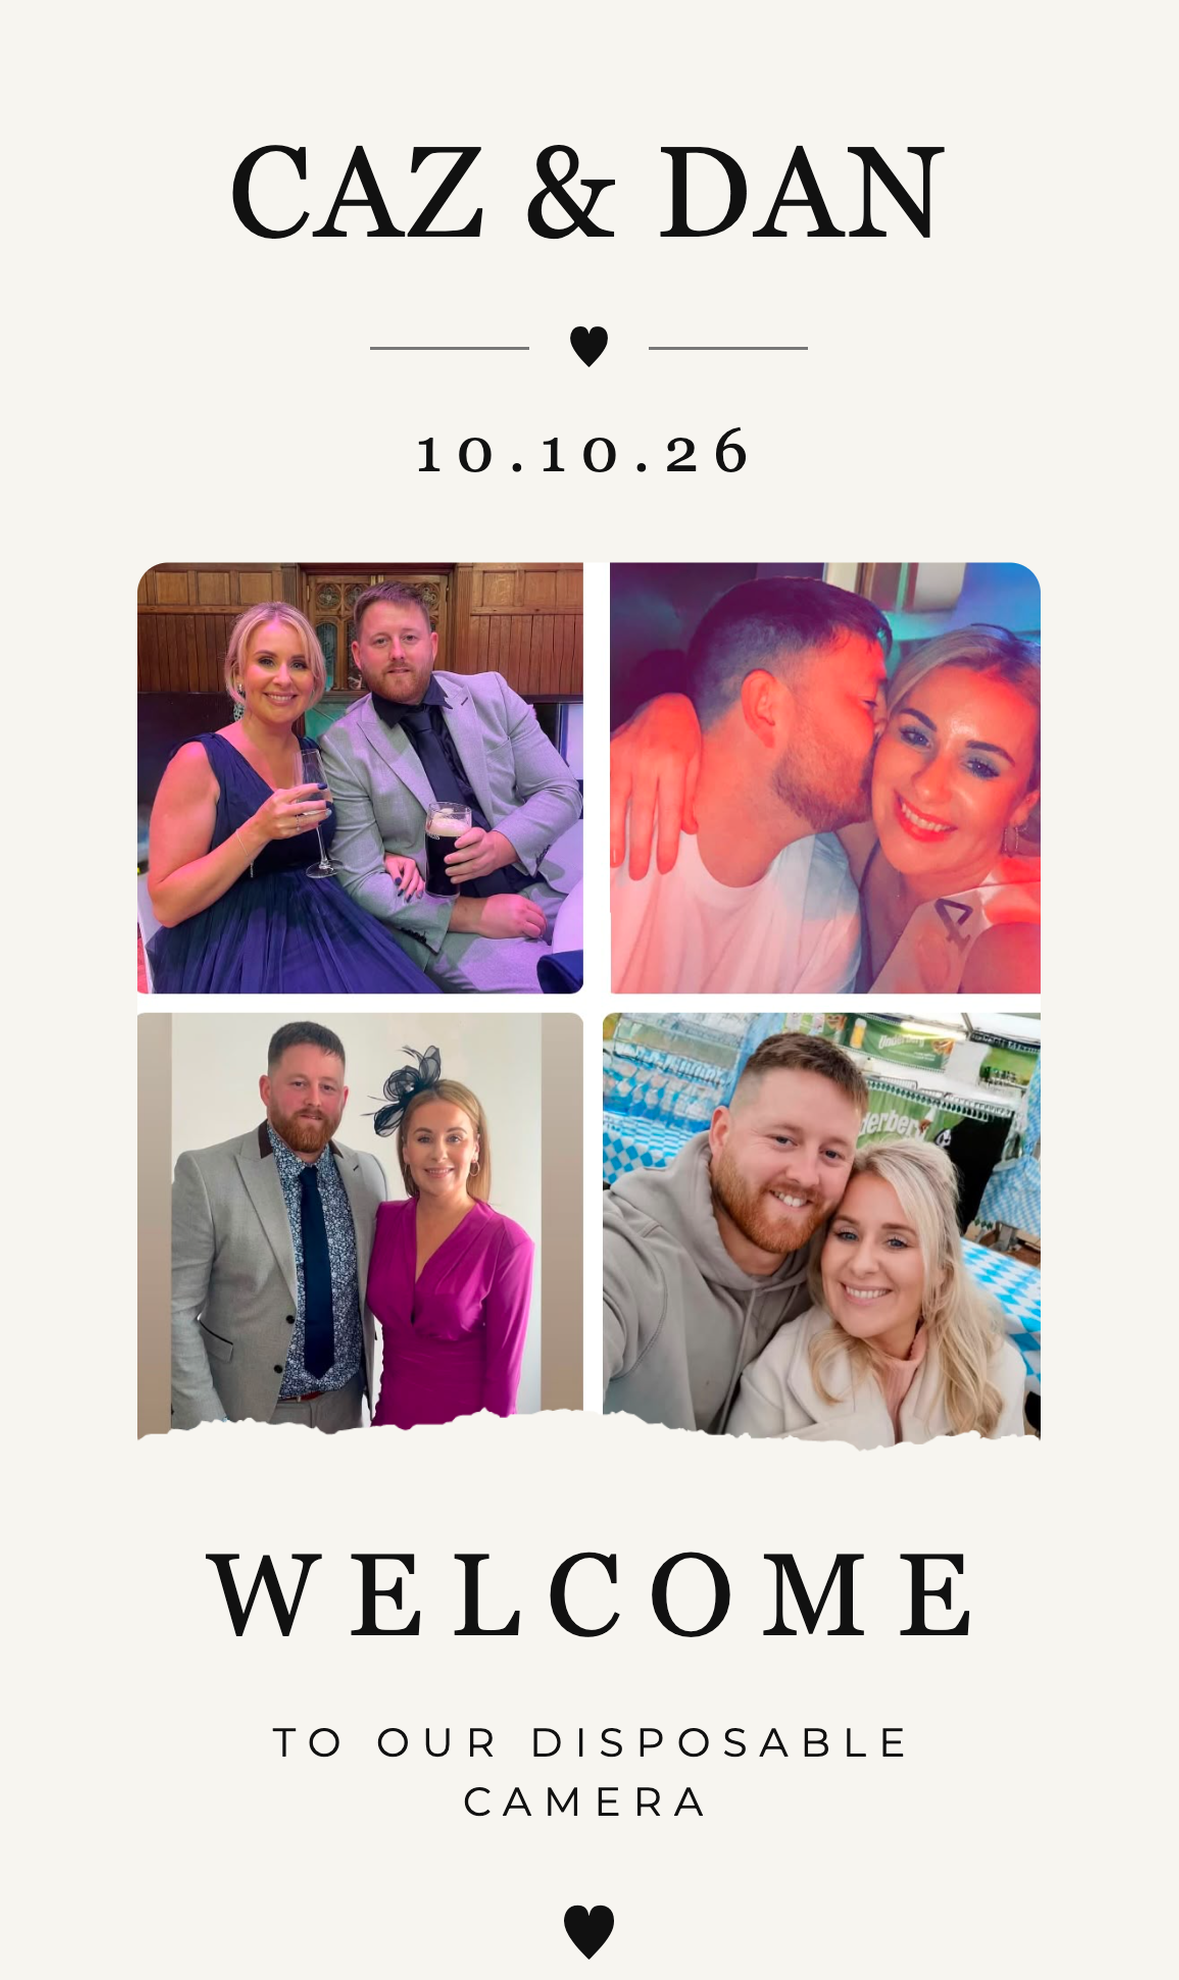
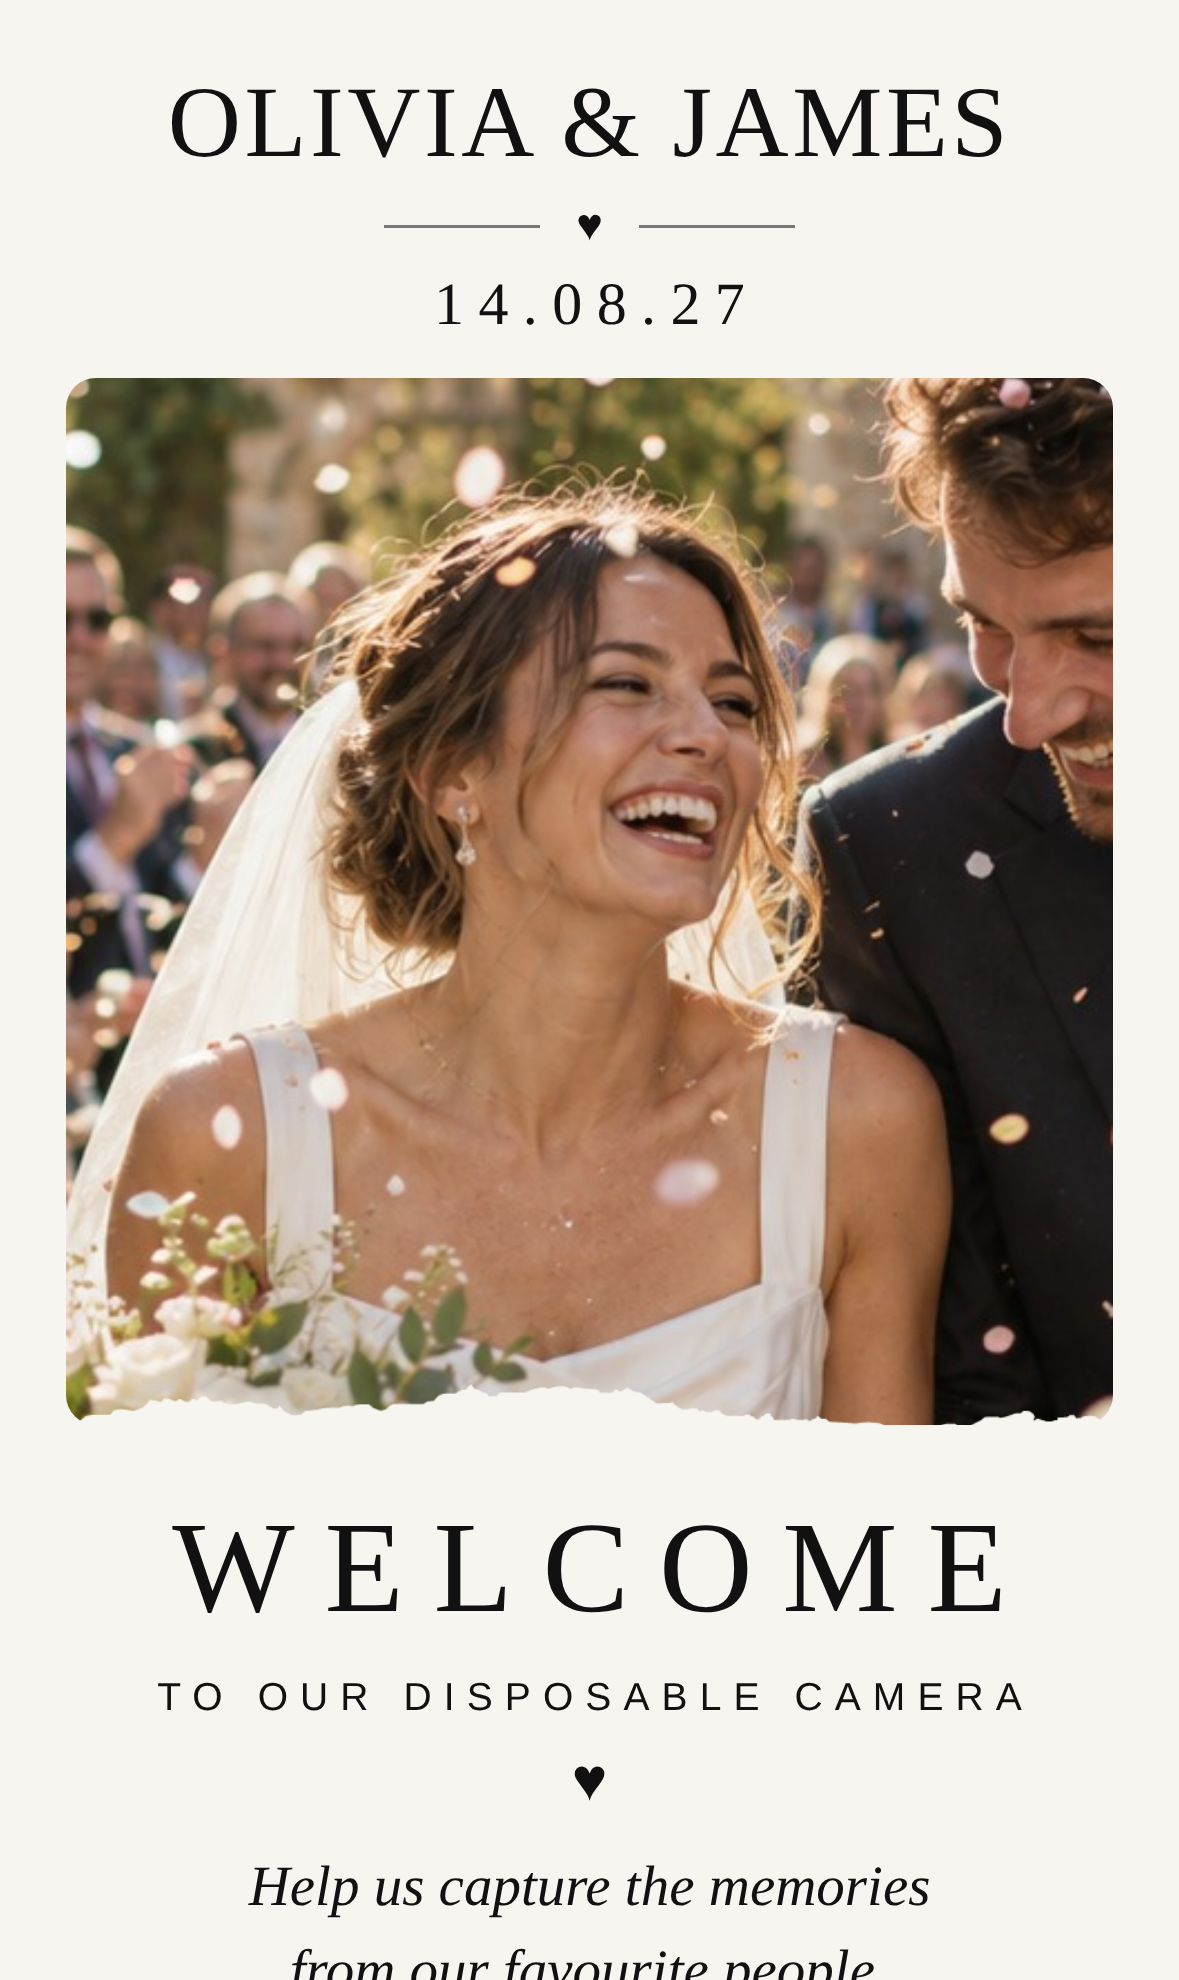
Enhance site functionality by adding a new KindWordsSection component, updating payment descriptions for clarity, and improving navigation links throughout the app. Update theme selection to open events directly with chosen themes. Additionally, modify the app URL handling in various components for 

diff --git a/src/components/PricingSection.vue b/src/components/PricingSection.vue
@@ -1,6 +1,6 @@
 <script setup>
 import { computed, ref } from 'vue'
-import { guestTiers } from '@/data/site.js'
+import { appUrl, guestTiers, startUrl } from '@/data/site.js'
 import { startEnquiry } from '@/data/enquiry.js'
 
 // Default to 100 guests: a typical wedding, and a sensible middle price to anchor on.
@@ -27,7 +27,8 @@ const customIncludes = [
 ]
 
 function chooseStandard() {
-  startEnquiry({ guests: tier.value.label })
+  if (isQuote.value) startEnquiry({ guests: tier.value.label })
+  else window.open(startUrl({ guests: tier.value.guests }), '_blank', 'noopener')
 }
 </script>
 
@@ -39,7 +40,7 @@ function chooseStandard() {
           <p class="section-kicker text-[#9b82ff]">PRICING</p>
           <h2>One price.<br />Your whole event.</h2>
         </div>
-        <p>Pay once per event, based on roughly how many guests you’re expecting. No subscriptions and no hidden extras.</p>
+        <p>Pay once per event, based on roughly how many guests you’re expecting. Try it free first, and pay online when you’re ready. No hidden extras.</p>
       </div>
 
       <div class="plans">
@@ -75,7 +76,7 @@ function chooseStandard() {
           </ul>
 
           <button class="plan-cta" type="button" @click="chooseStandard">
-            {{ isQuote ? 'Get a quote' : `Book your camera for ${tier.price}` }}
+            {{ isQuote ? 'Get a quote' : `Get started for ${tier.price}` }}
             <i class="fa-solid fa-arrow-right" aria-hidden="true"></i>
           </button>
         </article>
@@ -102,11 +103,11 @@ function chooseStandard() {
           <i class="fa-solid fa-plus" aria-hidden="true"></i>
           <p><strong>Optional extras:</strong> more shots per guest, longer gallery storage and printed QR table cards.</p>
         </div>
-        <button type="button" @click="startEnquiry({ message: 'I’m interested in the yearly pass for multiple events.' })">
-          <span class="extras-badge">Coming soon</span>
-          Planning lots of events? Ask about a yearly pass
+        <a :href="appUrl" target="_blank" rel="noopener">
+          <span class="extras-badge">£149 a year</span>
+          Planning lots of events? Get the yearly pass
           <i class="fa-solid fa-arrow-right" aria-hidden="true"></i>
-        </button>
+        </a>
       </div>
     </div>
   </section>
@@ -236,7 +237,7 @@ function chooseStandard() {
 .extras p { margin: 0; color: rgba(255, 255, 255, .65); font-size: 14px; line-height: 1.5; }
 .extras strong { color: #fff; }
 
-.extras button {
+.extras a {
   display: inline-flex;
   flex: 0 0 auto;
   align-items: center;
@@ -248,8 +249,8 @@ function chooseStandard() {
   font-weight: 700;
 }
 
-.extras button i { transition: transform 180ms ease; }
-.extras button:hover i { transform: translateX(4px); }
+.extras a i { transition: transform 180ms ease; }
+.extras a:hover i { transform: translateX(4px); }
 
 .extras-badge {
   border-radius: 999px;
@@ -265,7 +266,7 @@ function chooseStandard() {
 @media (max-width: 1000px) {
   .plans { grid-template-columns: minmax(0, 1fr); }
   .extras { align-items: flex-start; flex-direction: column; }
-  .extras button { flex-wrap: wrap; text-align: left; }
+  .extras a { flex-wrap: wrap; text-align: left; }
 }
 
 @media (max-width: 620px) {

diff --git a/src/components/KindWordsSection.vue b/src/components/KindWordsSection.vue
@@ -1,0 +1,107 @@
+<script setup>
+import { googleReviewsUrl, testimonials } from '@/data/site.js'
+
+// Hidden until there are at least two real quotes, so it never looks empty.
+const show = testimonials.length >= 2
+</script>
+
+<template>
+  <section v-if="show" id="kind-words" class="kind py-[110px]">
+    <div class="wrapper">
+      <div class="section-heading">
+        <div>
+          <p class="section-kicker">FROM REAL EVENTS</p>
+          <h2>Kind words.</h2>
+        </div>
+        <p>A few words from people who’ve used an Online Disposable Camera at their own events.</p>
+      </div>
+
+      <div class="quotes" :class="{ 'quotes--two': testimonials.length === 2 }">
+        <figure v-for="item in testimonials" :key="item.name + item.quote" class="quote">
+          <span class="quote-mark" aria-hidden="true">“</span>
+          <blockquote>{{ item.quote }}</blockquote>
+          <figcaption>
+            <strong>{{ item.name }}</strong>
+            <span>{{ [item.event, item.date].filter(Boolean).join(' · ') }}</span>
+          </figcaption>
+        </figure>
+      </div>
+
+      <a v-if="googleReviewsUrl" class="google-link" :href="googleReviewsUrl" target="_blank" rel="noopener">
+        <i class="fa-brands fa-google" aria-hidden="true"></i>
+        Read and leave reviews on Google
+        <i class="fa-solid fa-arrow-right" aria-hidden="true"></i>
+      </a>
+    </div>
+  </section>
+</template>
+
+<style scoped>
+.kind { border-top: 1px solid rgba(16, 16, 16, .1); }
+
+.quotes {
+  display: grid;
+  grid-template-columns: repeat(3, minmax(0, 1fr));
+  gap: 22px;
+  margin-top: 54px;
+}
+
+.quotes--two { grid-template-columns: repeat(2, minmax(0, 1fr)); }
+
+.quote {
+  display: flex;
+  min-width: 0;
+  flex-direction: column;
+  margin: 0;
+  border: 1px solid rgba(16, 16, 16, .1);
+  border-radius: 26px;
+  background: #fff;
+  padding: 30px;
+}
+
+.quote-mark {
+  height: 44px;
+  color: #7437ff;
+  font-family: Georgia, serif;
+  font-size: 80px;
+  line-height: 1;
+}
+
+.quote blockquote {
+  margin: 14px 0 0;
+  font-family: 'Manrope', sans-serif;
+  font-size: clamp(18px, 1.6vw, 22px);
+  font-weight: 700;
+  line-height: 1.4;
+  letter-spacing: -0.02em;
+  text-wrap: pretty;
+}
+
+.quote figcaption {
+  display: grid;
+  gap: 2px;
+  margin-top: auto;
+  padding-top: 26px;
+}
+
+.quote figcaption strong { font-size: 15px; }
+.quote figcaption span { color: #68645f; font-size: 13px; }
+
+.google-link {
+  display: inline-flex;
+  align-items: center;
+  gap: 10px;
+  margin-top: 28px;
+  color: #101010;
+  font-size: 15px;
+  font-weight: 700;
+}
+
+.google-link:hover { color: #7437ff; }
+.google-link .fa-arrow-right { transition: transform 180ms ease; }
+.google-link:hover .fa-arrow-right { transform: translateX(4px); }
+
+@media (max-width: 960px) {
+  .quotes, .quotes--two { grid-template-columns: minmax(0, 1fr); }
+}
+</style>

diff --git a/src/data/site.js b/src/data/site.js
@@ -41,10 +41,18 @@ export const faqs = [
   ['How long are the photos kept?', 'Your gallery stays online for three months after the event. You can download everything at any time, and if you need longer, just ask.'],
   ['Can the design match our wedding or event?', 'Yes. Pick a ready-made theme and add your names, date and photos, or go fully custom with a design built around your invitations, colours or theme.'],
   ['Do we get our own link?', 'Yes. Every event gets its own link, like your-event.onlinedisposablecamera.co.uk, plus a QR code to print. A custom domain can be arranged too.'],
-  ['How far in advance should we book?', 'Ready-made themes can usually be set up within a few days. For a fully custom design, get in touch at least four weeks before your event.'],
-  ['How do we pay?', 'Once we’ve agreed the details, I’ll send you a secure payment link. You pay once per event, with no subscription.'],
+  ['How far in advance should we book?', 'Ready-made themes are ready in minutes: create your event, try the camera, then go live. For a fully custom design, get in touch at least four weeks before your event.'],
+  ['How do we pay?', 'Online by card, Apple Pay or Google Pay, when you’re ready to go live. You can set everything up and try the camera with 5 test photos first. Pay once per event, with nothing to renew.'],
+  ['What’s the yearly pass?', 'For anyone planning lots of events, like venues and planners. It’s £149 a year for unlimited events of up to 100 guests each, and bigger events just pay the difference. It renews yearly and you can cancel any time.'],
   ['Is it just for weddings?', 'Not at all. Hen dos, birthdays, anniversaries, parties and work events all work brilliantly, each with its own look.'],
 ]
+
+// The customer app: sign in, create an event, try it and pay.
+export const appUrl = 'https://app.onlinedisposablecamera.co.uk'
+export const startUrl = (params = {}) => {
+  const query = new URLSearchParams(params).toString()
+  return `${appUrl}/events/new${query ? `?${query}` : ''}`
+}
 
 export const contactEmail = 'hello@onlinedisposablecamera.co.uk'
 
@@ -53,3 +61,13 @@ export const socialLinks = [
   { name: 'Instagram', icon: 'fa-brands fa-instagram', url: '' },
   { name: 'TikTok', icon: 'fa-brands fa-tiktok', url: '' },
 ]
+
+// Real quotes from real customers, used with their permission. Use their own words.
+// The "Kind words" section stays hidden until there are at least two here.
+// Example:
+//   { quote: 'Our guests loved it and we got hundreds of photos we never would have seen.', name: 'Caz & Dan', event: 'Wedding', date: 'October 2026' },
+export const testimonials = [
+]
+
+// Optional: your Google Business Profile review link. Leave blank to hide the button.
+export const googleReviewsUrl = ''

diff --git a/src/components/SiteHeader.vue b/src/components/SiteHeader.vue
@@ -1,13 +1,9 @@
 <script setup>
 import { onBeforeUnmount, onMounted, ref, watch } from 'vue'
 import brandLogo from '@/assets/brand/logo-long.png'
-import { navItems } from '@/data/site.js'
+import { appUrl, navItems } from '@/data/site.js'
 
 const mobileMenuOpen = ref(false)
-
-function scrollTo(id) {
-  document.querySelector(id)?.scrollIntoView({ behavior: 'smooth' })
-}
 
 function closeMobileMenu() {
   mobileMenuOpen.value = false
@@ -40,7 +36,8 @@ onBeforeUnmount(() => {
           <a v-for="item in navItems" :key="item[0]" class="transition-opacity hover:opacity-50" :href="item[1]">{{ item[0] }}</a>
         </nav>
   
-        <button class="header-cta min-h-[46px] rounded-full bg-[#7437ff] px-[21px] font-bold text-white transition hover:-translate-y-[2px] hover:bg-[#5f22f4] max-[980px]:hidden" type="button" @click="scrollTo('#contact')">Get in touch</button>
+        <a class="header-signin text-[14px] font-semibold transition-opacity hover:opacity-50 max-[980px]:hidden" :href="appUrl" target="_blank" rel="noopener">Sign in</a>
+        <a class="header-cta inline-flex min-h-[46px] items-center rounded-full bg-[#7437ff] px-[21px] font-bold text-white transition hover:-translate-y-[2px] hover:bg-[#5f22f4] max-[980px]:hidden" :href="`${appUrl}/events/new`" target="_blank" rel="noopener">Get started</a>
   
         <button class="menu-toggle" :class="{ 'is-open': mobileMenuOpen }" type="button" :aria-expanded="mobileMenuOpen" aria-controls="mobile-navigation" :aria-label="mobileMenuOpen ? 'Close menu' : 'Open menu'" @click="mobileMenuOpen = !mobileMenuOpen">
           <span></span><span></span><span></span>
@@ -62,9 +59,10 @@ onBeforeUnmount(() => {
       <nav class="mt-[22px] flex flex-col">
         <a v-for="item in navItems" :key="item[0]" class="border-b border-black/10 py-[22px] text-[clamp(30px,7vw,52px)] font-bold tracking-[-0.04em]" :href="item[1]" @click="closeMobileMenu">{{ item[0] }}</a>
       </nav>
-      <button type="button" class="mt-auto flex min-h-[58px] items-center justify-between rounded-full bg-[#7437ff] px-[24px] font-bold text-white" @click="scrollTo('#contact'); closeMobileMenu()">
-        Get in touch <i class="fa-solid fa-arrow-right" aria-hidden="true"></i>
-      </button>
+      <a class="mt-[22px] py-[10px] text-[17px] font-semibold" :href="appUrl" target="_blank" rel="noopener">Sign in to your events</a>
+      <a class="mt-auto flex min-h-[58px] items-center justify-between rounded-full bg-[#7437ff] px-[24px] font-bold text-white" :href="`${appUrl}/events/new`" target="_blank" rel="noopener">
+        Get started <i class="fa-solid fa-arrow-right" aria-hidden="true"></i>
+      </a>
     </aside>
   </Transition>
 </template>

diff --git a/src/components/ThemesSection.vue b/src/components/ThemesSection.vue
@@ -1,23 +1,32 @@
 <script setup>
 import PhoneFrame from '@/components/PhoneFrame.vue'
 import { startEnquiry } from '@/data/enquiry.js'
+import { startUrl } from '@/data/site.js'
 
 // Flat screenshots live in public/theme-screens/ (see the README there).
+// Starts a new event in the app with this theme already chosen.
+function openTheme(theme) {
+  window.open(startUrl({ theme: theme.key }), '_blank', 'noopener')
+}
+
 const themes = [
   {
     name: 'Classic Editorial',
+    key: 'classic-editorial',
     note: 'Clean typography, timeless layouts and a polished editorial feel.',
     bestFor: 'Best for weddings & anniversaries',
     screen: '/theme-screens/classic-editorial.png',
   },
   {
     name: 'Soft Film',
+    key: 'soft-film',
     note: 'Warm tones, tactile textures and a relaxed analogue-inspired look.',
     bestFor: 'Best for garden parties & birthdays',
     screen: '/theme-screens/soft-film.png',
   },
   {
     name: 'After Dark',
+    key: 'after-dark',
     note: 'Flash photography, bold contrast and a late-night party atmosphere.',
     bestFor: 'Best for hen dos & big nights out',
     screen: '/theme-screens/after-dark.png',
@@ -41,7 +50,7 @@ const themes = [
           v-for="theme in themes"
           :key="theme.name"
           class="theme-card"
-          @click="startEnquiry({ theme: theme.name })"
+          @click="openTheme(theme)"
         >
           <div class="theme-stage">
             <PhoneFrame :src="theme.screen" :alt="`${theme.name} disposable camera theme`" />
@@ -51,9 +60,9 @@ const themes = [
             <h3>{{ theme.name }}</h3>
             <p class="theme-note">{{ theme.note }}</p>
             <p class="theme-best">{{ theme.bestFor }}</p>
-            <button class="theme-link" type="button" @click.stop="startEnquiry({ theme: theme.name })">
+            <a class="theme-link" :href="startUrl({ theme: theme.key })" @click.stop target="_blank" rel="noopener">
               Choose this theme <i class="fa-solid fa-arrow-right" aria-hidden="true"></i>
-            </button>
+            </a>
           </div>
         </article>
 

diff --git a/src/components/SiteFooter.vue b/src/components/SiteFooter.vue
@@ -1,8 +1,7 @@
 <script setup>
 import { computed } from 'vue'
 import brandLogo from '@/assets/brand/logo-long.png'
-import { contactEmail, navItems, socialLinks } from '@/data/site.js'
-import { startEnquiry } from '@/data/enquiry.js'
+import { appUrl, contactEmail, navItems, socialLinks } from '@/data/site.js'
 
 const currentYear = new Date().getFullYear()
 const socials = computed(() => socialLinks.filter((link) => link.url))
@@ -17,9 +16,9 @@ function backToTop() {
     <div class="wrapper">
       <div class="footer-hero">
         <p class="footer-line">Every guest gets a camera.<br /><span>You get every photo.</span></p>
-        <button class="footer-cta" type="button" @click="startEnquiry({})">
-          Book your camera <i class="fa-solid fa-arrow-right" aria-hidden="true"></i>
-        </button>
+        <a class="footer-cta" :href="`${appUrl}/events/new`" target="_blank" rel="noopener">
+          Get started <i class="fa-solid fa-arrow-right" aria-hidden="true"></i>
+        </a>
       </div>
 
       <div class="footer-main">
@@ -42,6 +41,7 @@ function backToTop() {
           <p class="footer-heading">Get in touch</p>
           <a :href="`mailto:${contactEmail}`">{{ contactEmail }}</a>
           <a href="#contact">Send an enquiry</a>
+          <a :href="appUrl" target="_blank" rel="noopener">Sign in to your events</a>
           <p class="footer-note">I reply within 3 working days.</p>
         </div>
       </div>

diff --git a/src/components/HeroSection.vue b/src/components/HeroSection.vue
@@ -1,5 +1,6 @@
 <script setup>
 import PhoneFrame from '@/components/PhoneFrame.vue'
+import { startUrl } from '@/data/site.js'
 
 function scrollTo(id) {
   document.querySelector(id)?.scrollIntoView({ behavior: 'smooth' })
@@ -23,8 +24,8 @@ const heroFeatures = [
         <p class="hero-text">Give your guests a simple way to capture your event. They scan a QR code, take their photos, and you get a private gallery to relive every moment.</p>
 
         <div class="hero-actions">
-          <button class="btn-primary" type="button" @click="scrollTo('#themes')">View themes <i class="fa-solid fa-arrow-right" aria-hidden="true"></i></button>
-          <button class="btn-secondary" type="button" @click="scrollTo('#contact')">Get in touch</button>
+          <a class="btn-primary" :href="startUrl()" target="_blank" rel="noopener">Get started <i class="fa-solid fa-arrow-right" aria-hidden="true"></i></a>
+          <button class="btn-secondary" type="button" @click="scrollTo('#themes')">View themes</button>
         </div>
 
         <ul class="hero-features">

diff --git a/src/App.vue b/src/App.vue
@@ -5,6 +5,7 @@ import HowItWorksBanner from '@/components/HowItWorksBanner.vue'
 import ThemesSection from '@/components/ThemesSection.vue'
 import CustomThemesSection from '@/components/CustomThemesSection.vue'
 import BothSidesSection from '@/components/BothSidesSection.vue'
+import KindWordsSection from '@/components/KindWordsSection.vue'
 import PricingSection from '@/components/PricingSection.vue'
 import FaqSection from '@/components/FaqSection.vue'
 import ContactSection from '@/components/ContactSection.vue'
@@ -24,6 +25,7 @@ const SHOW_COMING_SOON = false
     <ThemesSection />
     <CustomThemesSection />
     <BothSidesSection />
+    <KindWordsSection />
     <PricingSection />
     <FaqSection />
     <ContactSection />

diff --git a/src/components/ContactSection.vue b/src/components/ContactSection.vue
@@ -9,7 +9,7 @@ const errorMessage = ref('')
 
 const nextSteps = [
   { title: 'I’ll reply within 3 working days', text: 'With ideas for your design and the right setup for your guests.' },
-  { title: 'You approve and pay', text: 'Once you’re happy, I send a secure payment link. Pay once, no subscription.' },
+  { title: 'You approve and pay', text: 'Once you’re happy, I send a secure payment link. Pay once per event.' },
   { title: 'Get your link and QR code', text: 'Ready to print on invites, table cards and signs.' },
 ]
 
